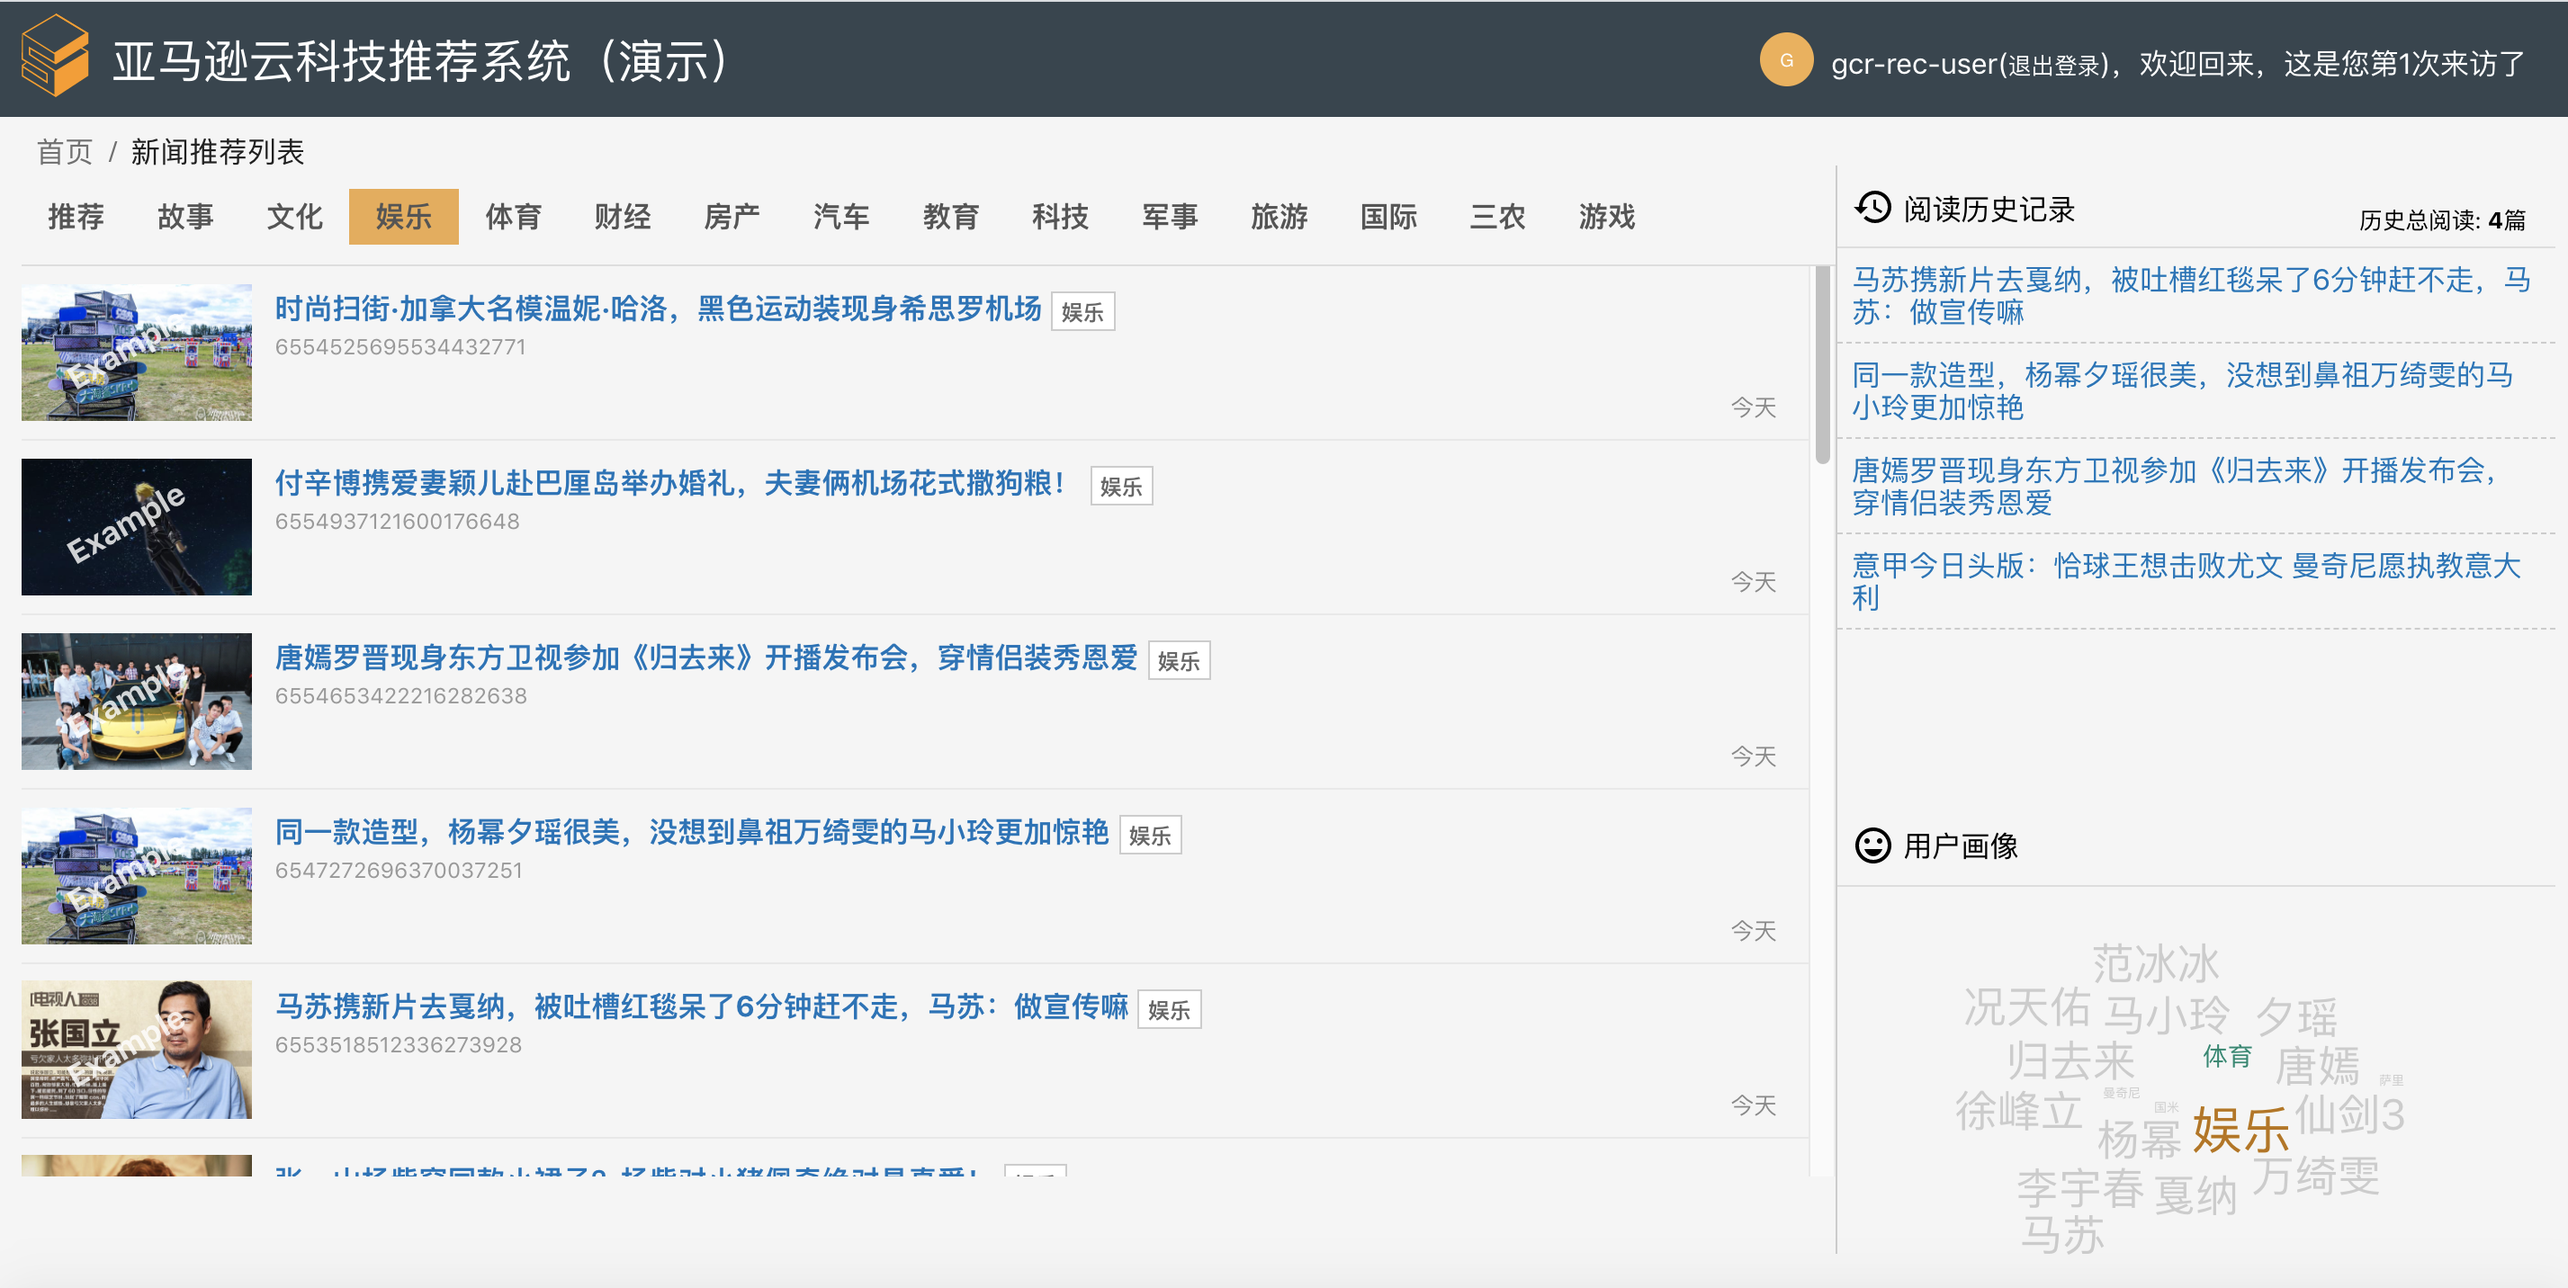
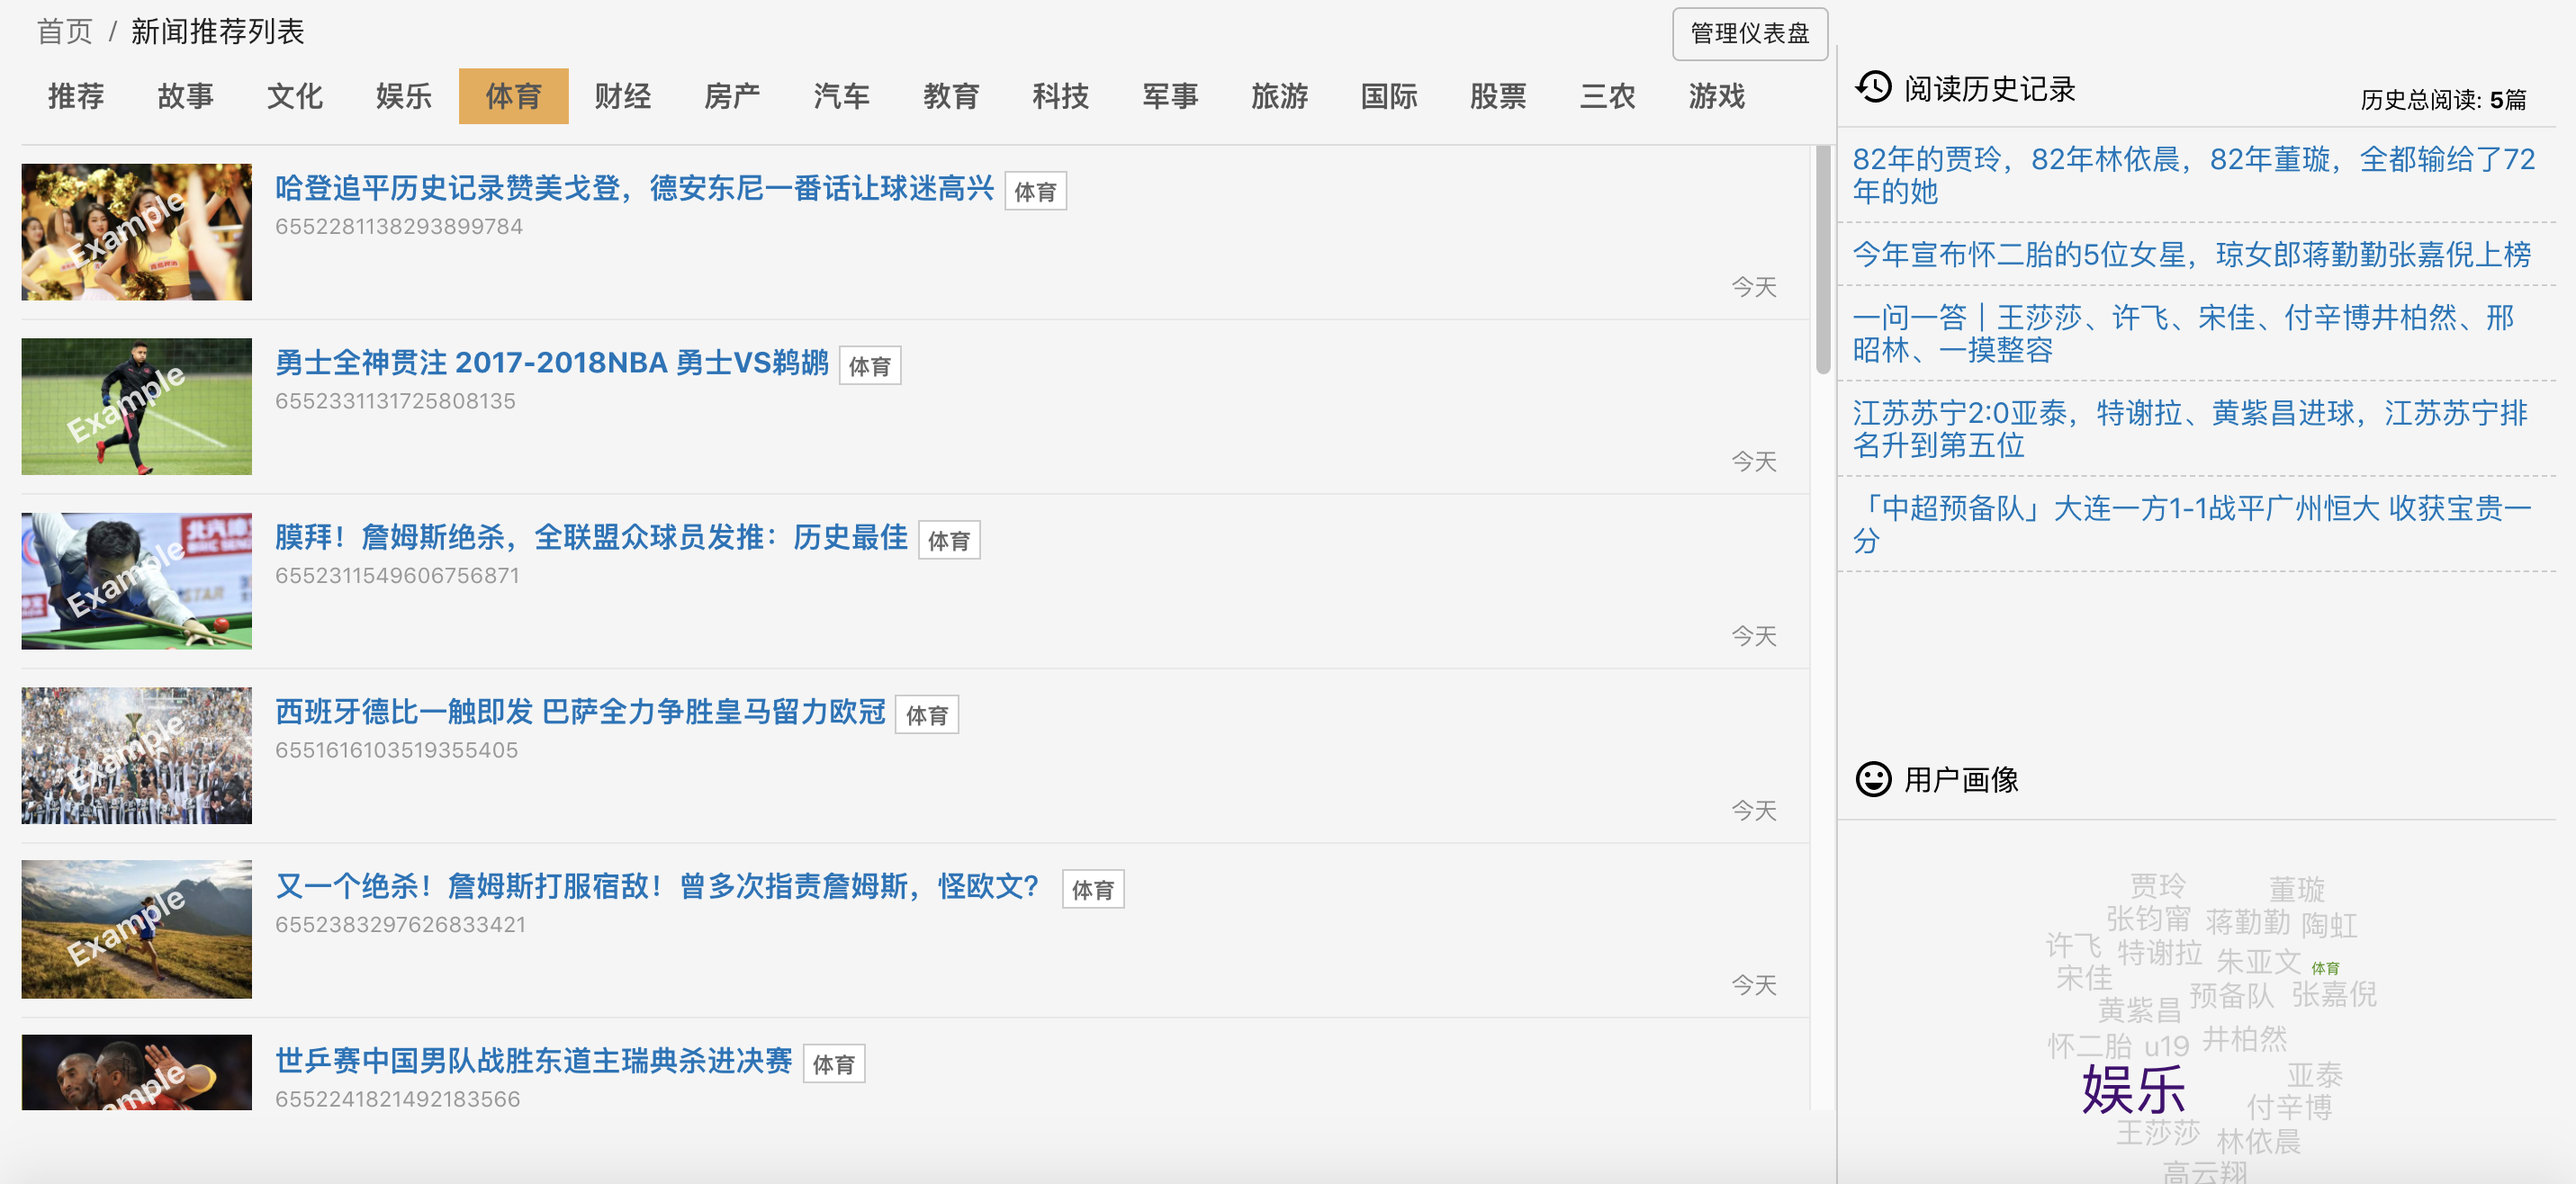
data explore finished

diff --git a/docs/experience/3_data/_index.en.md b/docs/experience/3_data/_index.en.md
@@ -3,14 +3,24 @@ title: Data Exploration
 weight: 43
 ---
 
-In this section, you will experience the CD(Continuous Deployment) process if one of recommender system service is changed, you’ll need the following steps:
+There is an icon in the GUI that you can enter into the administrator ui:
 
-1. Change demo service deployment config to new image tag
+![Admin-Icon](/images/admin-icon.png)
 
+Then you will see the administrator ui (TODO，准备500用户，点击次数5次以下).
 
-2. Update services deployment config to argo cd.
+![Admin-UI](/images/admin-ui.png)
 
+The statistics is carried automatically every 15 minutes. You can see that we have prepared over 2000 news for you. We have prepared 500 fake users for you. The more you click , you will more likely become the active user. The whole click number, hot topics and hot news are also displayed. 
 
-3. You will see the new demo service image dployed.
+There are many metrics for a recommender system. In this solution, we show the click rate and coverage rate.
 
-TODO picture
+\begin{equation}
+    \click_rate = \frac{clicked news}{exposed news}
+\end{equation}
+
+\begin{equation}
+    \coverage = \frac{exposed news}{whole news}
+\end{equation}
+
+The click rate evaluates the performance of recommendation list. The coverage rate shows how many news have been recommended to the user. From the perspective of the system, every news has each value and should recommended to the most suitable user.
